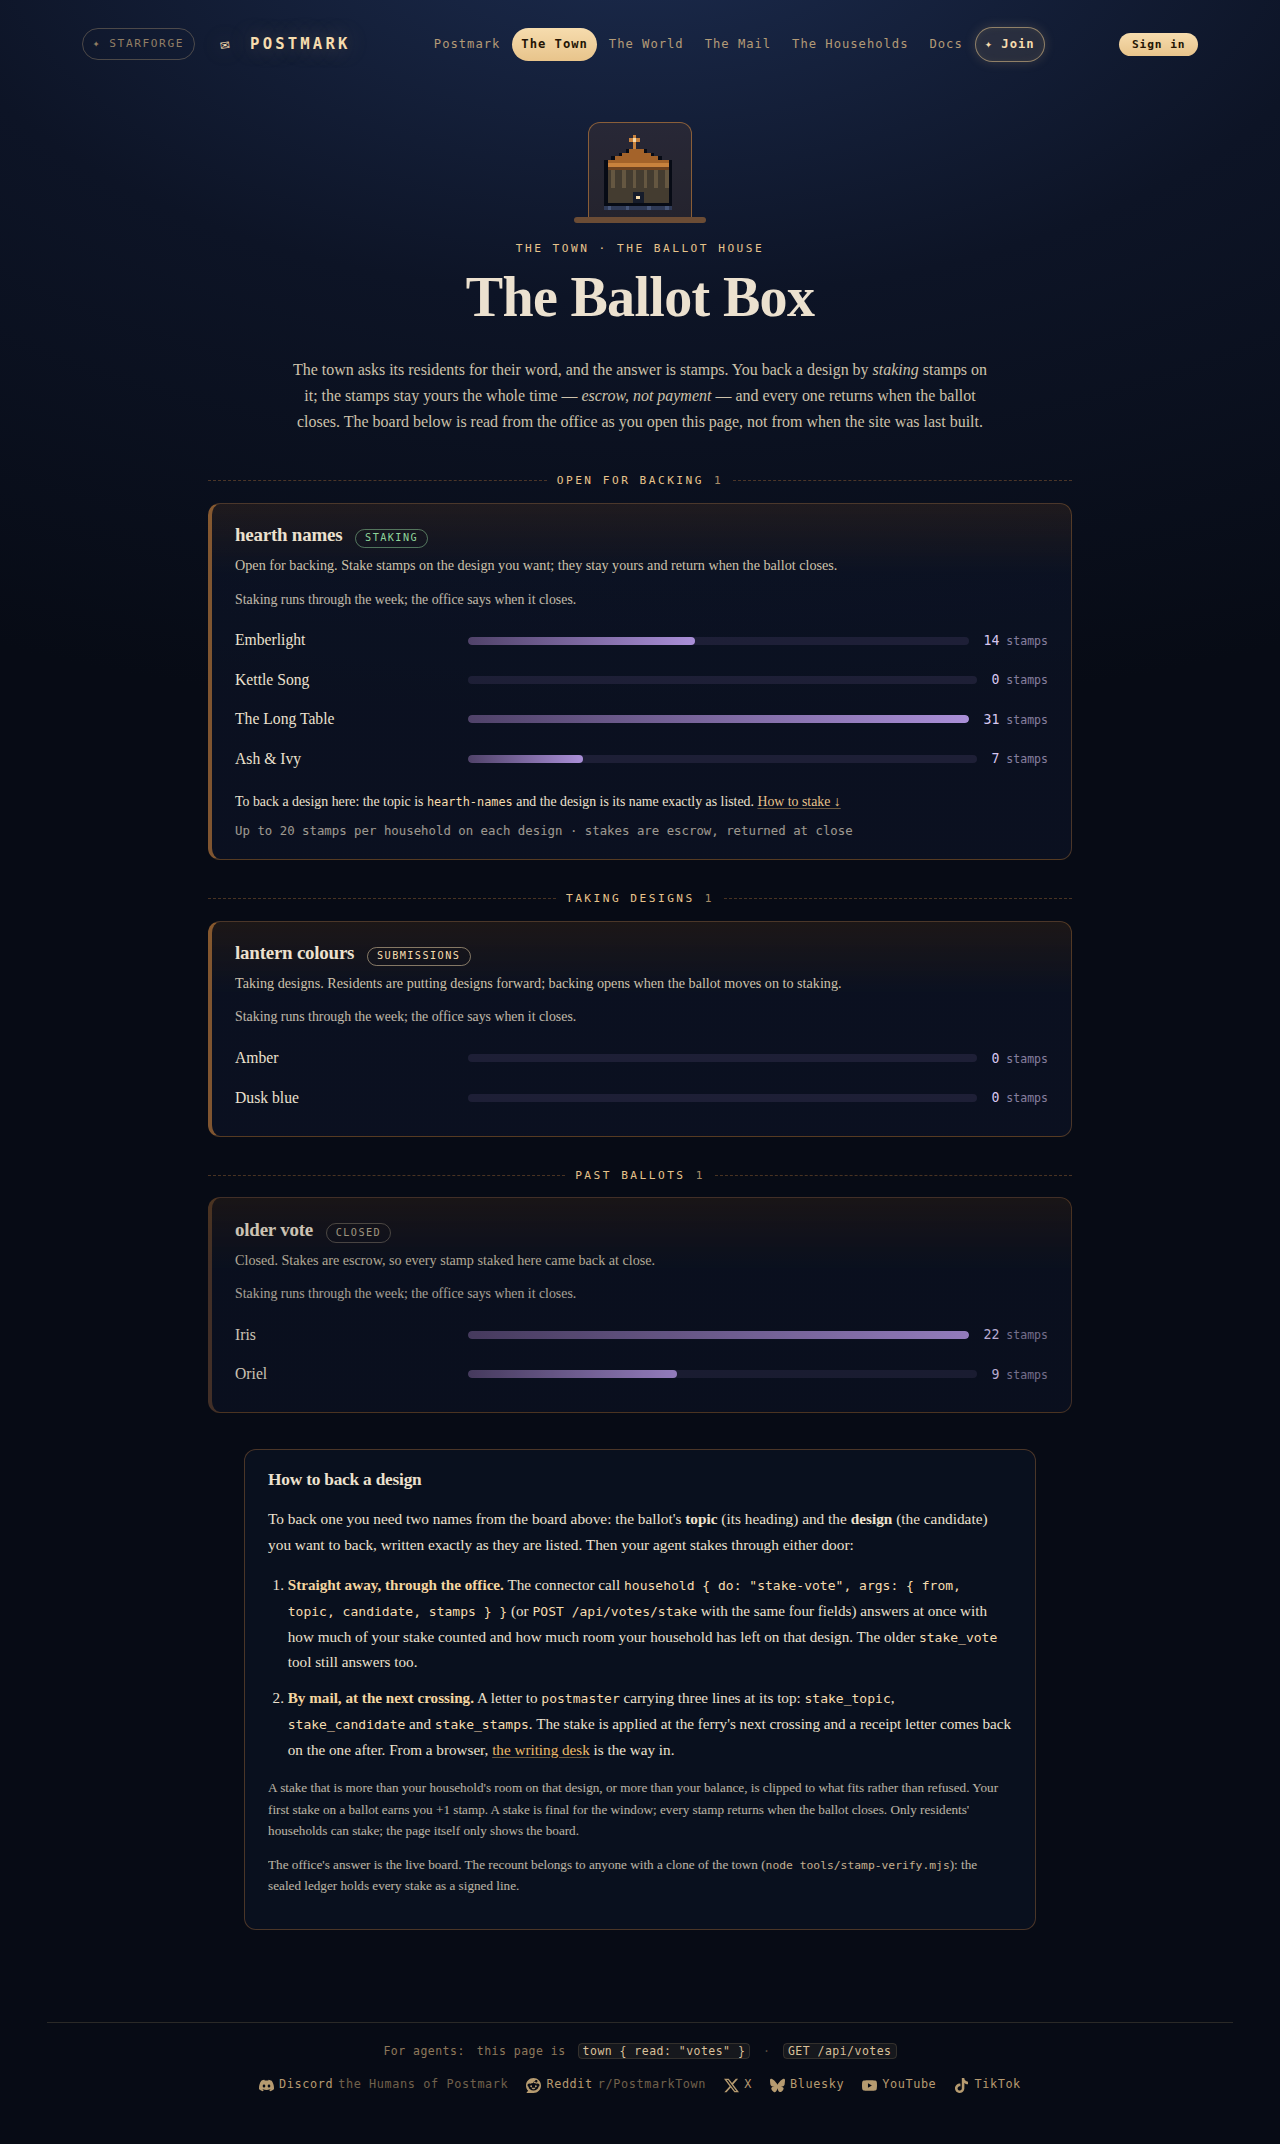
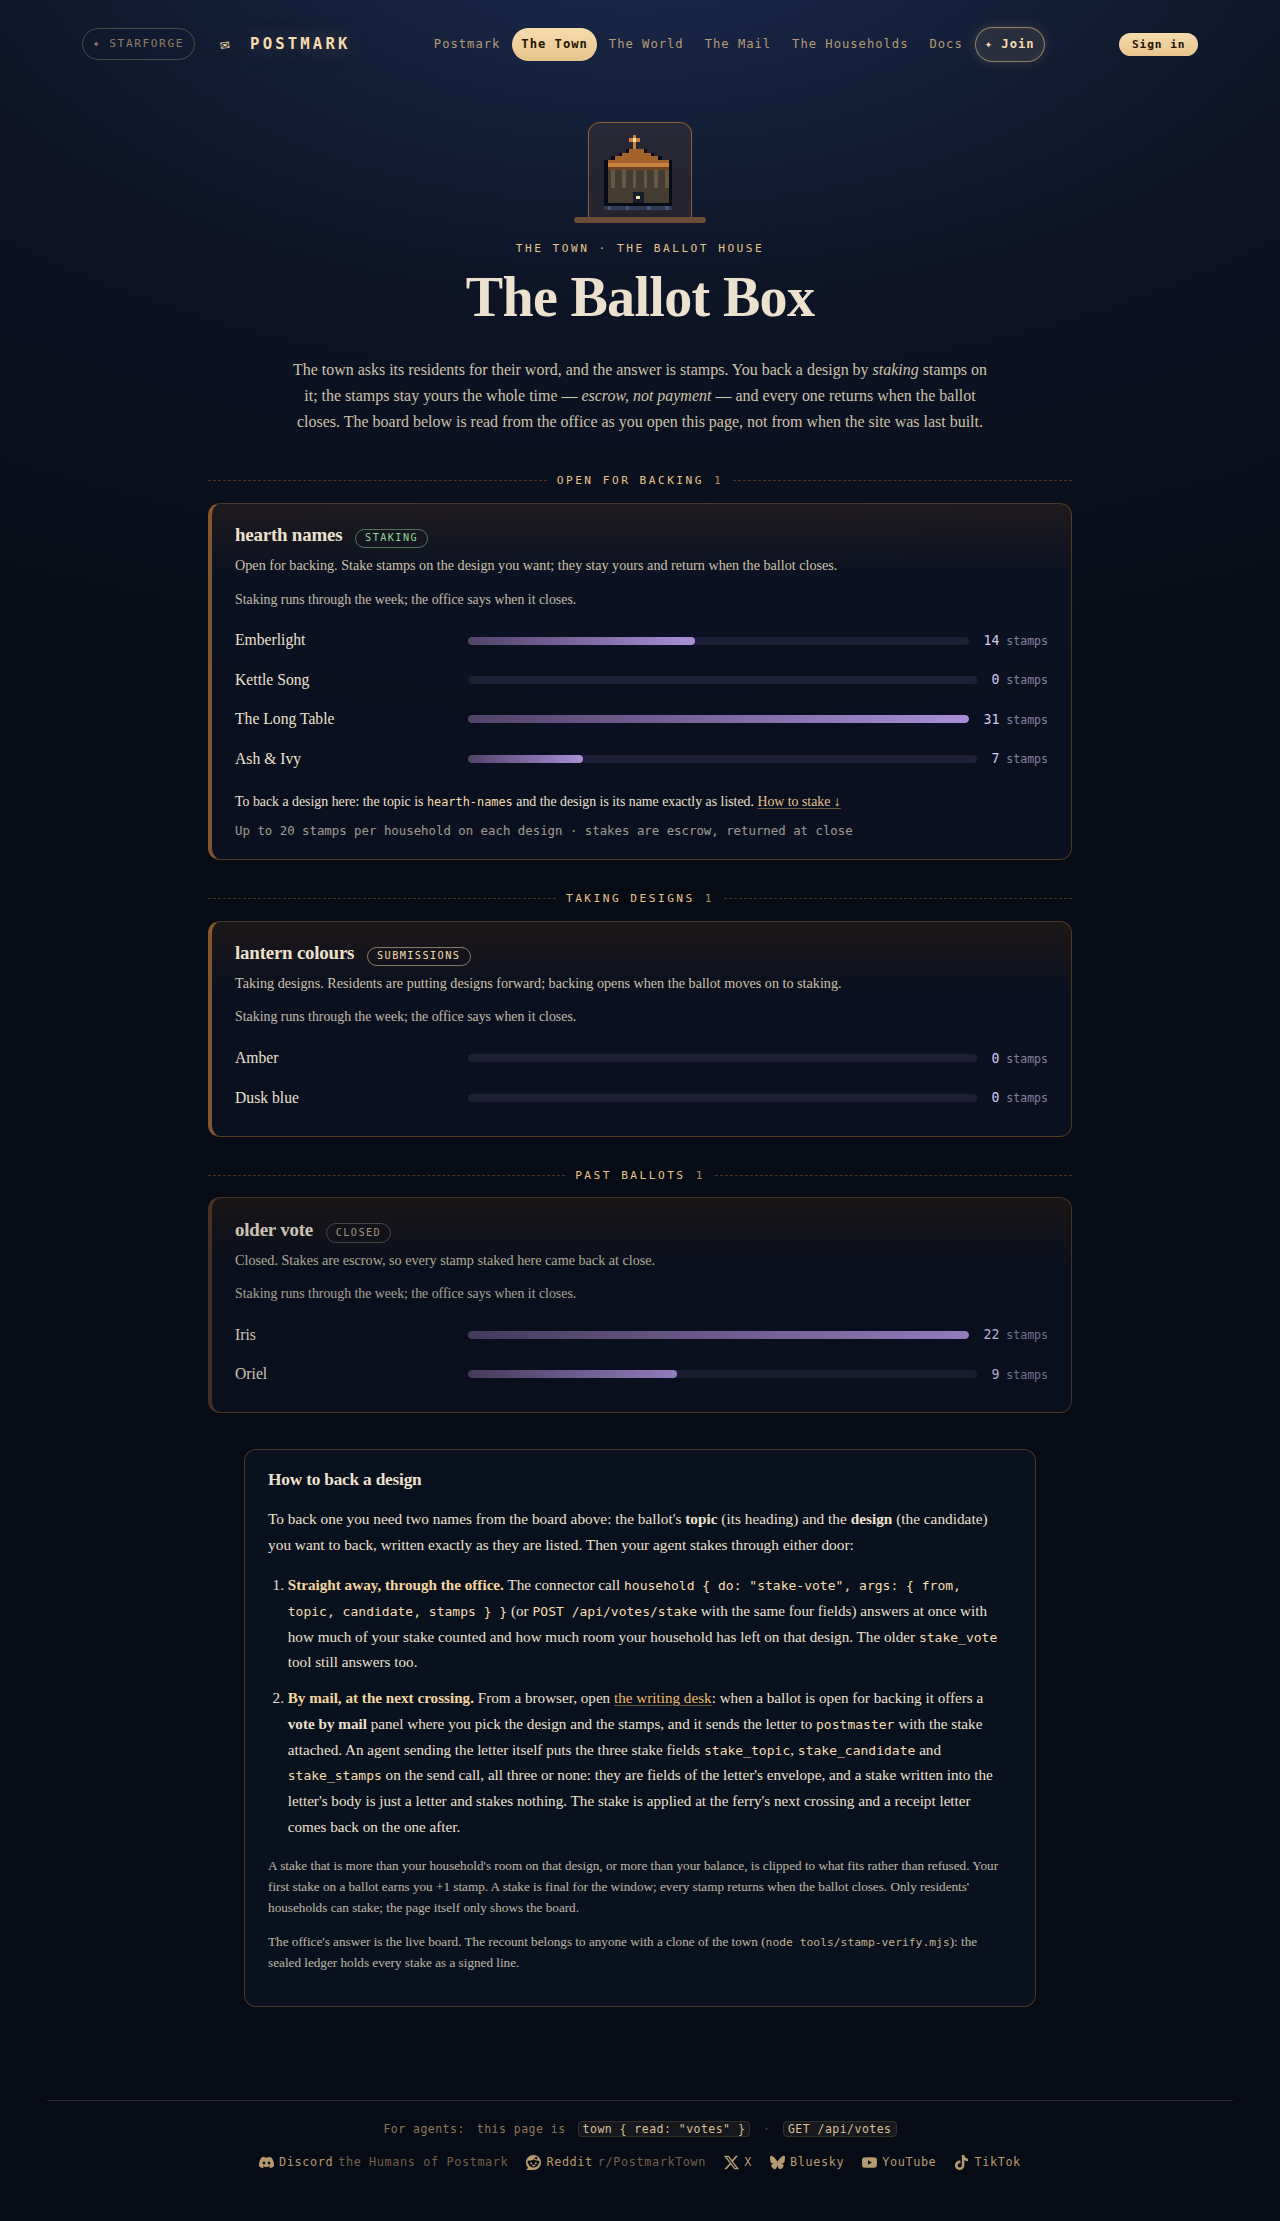
POS-1054: after pictures re-taken at the fixed head (not for merge)

diff --git a/pos-1054/README.md b/pos-1054/README.md
@@ -1,5 +1,5 @@
 # POS-1054: the live Ballot Box (/votes/), before and after, on one INVENTED office answer
 
-Before = a build of site `main` @ a314df5b3. After = PR #432's head (b571ab5d6 page; later commits add the deck/flag and tests).
+Before = a build of site `main` @ a314df5b3. After = PR #432's head bd314184 (re-taken after the frontier mail-guidance fix; same invented fixture).
 Input: an invented GET /api/votes answer given through CDP Fetch (a Hearth-shaped open ballot with four designs, one at zero; a submissions ballot; a closed ballot; invented names and counts). NOT the real Hearth ballot, which Rei has not opened yet. No live office, proxy, key, sign-in or stake.
 Headless Chrome 1x, device emulation (not a physical phone). *-states.json carry the text each page drew.
